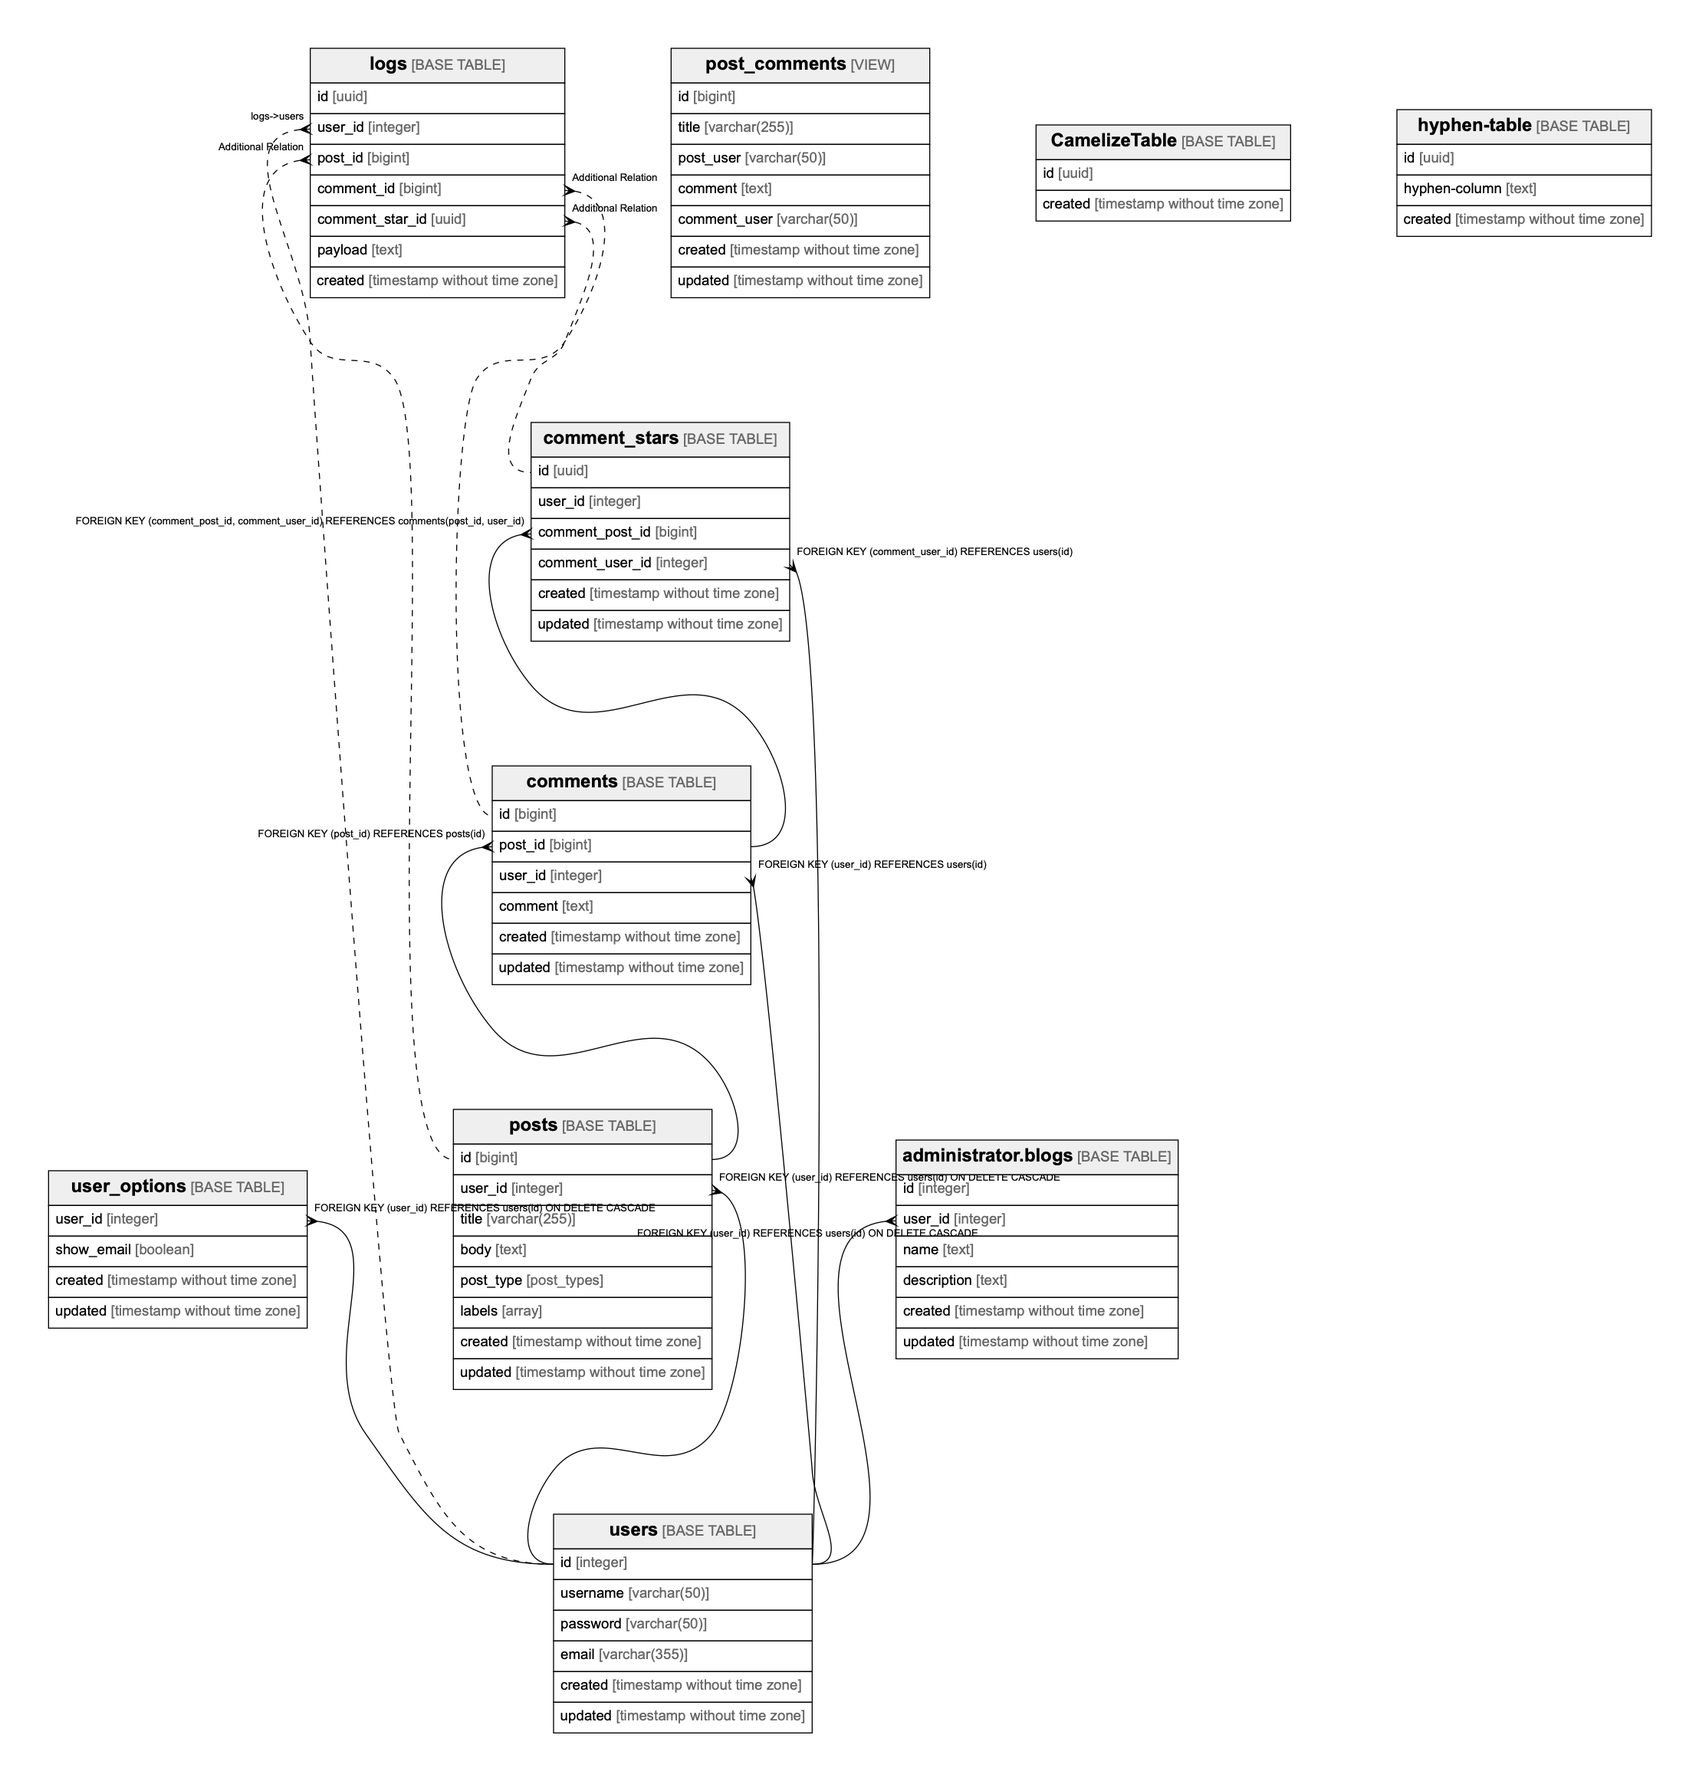
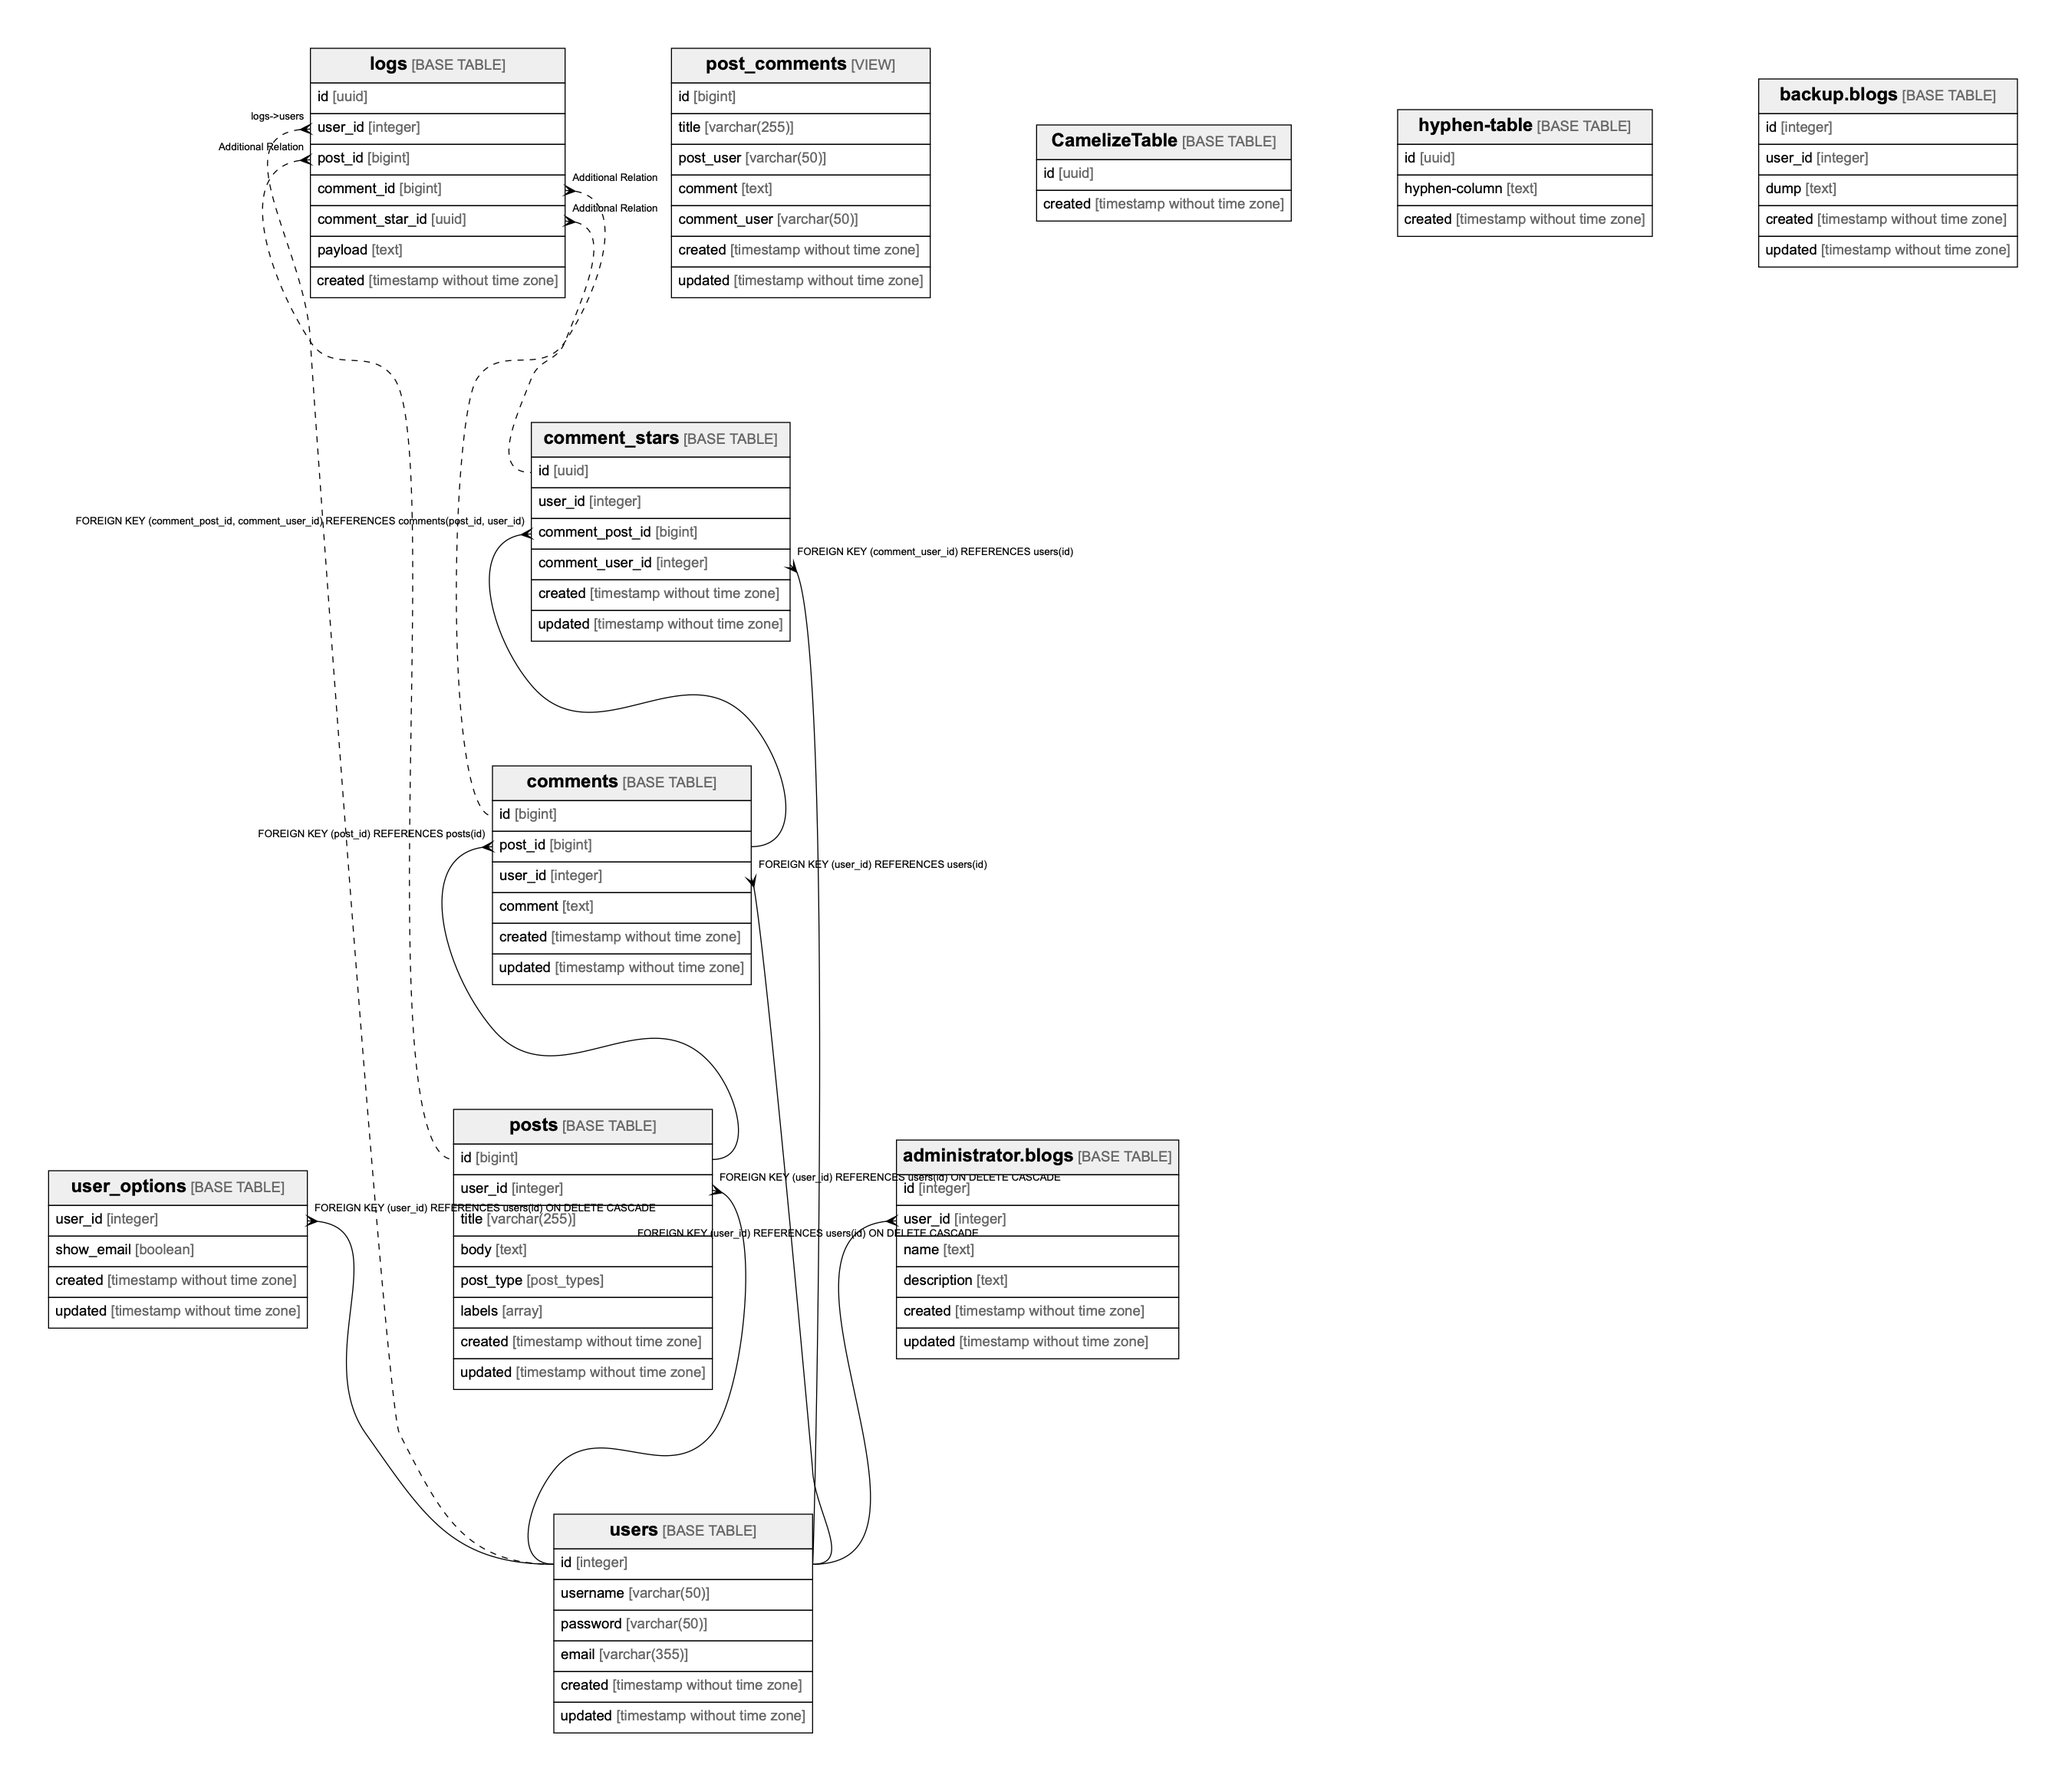
Add test for #134

diff --git a/datasource/datasource_test.go b/datasource/datasource_test.go
@@ -17,7 +17,7 @@ var tests = []struct {
 	relationCount int
 }{
 	{"my://root:mypass@localhost:33306/testdb", "testdb", 9, 6},
-	{"pg://postgres:pgpass@localhost:55432/testdb?sslmode=disable", "testdb", 10, 7},
+	{"pg://postgres:pgpass@localhost:55432/testdb?sslmode=disable", "testdb", 11, 7},
 	{"json://../testdata/testdb.json", "testdb", 7, 9},
 	{"ms://SA:MSSQLServer-Passw0rd@localhost:11433/testdb", "testdb", 9, 6},
 }

diff --git a/sample/adjust/backup.blogs.md b/sample/adjust/backup.blogs.md
@@ -1,0 +1,33 @@
+# backup.blogs
+
+## Description
+
+## Columns
+
+| Name    | Type                        | Default                                  | Nullable | Children | Parents | Comment |
+| ------- | --------------------------- | ---------------------------------------- | -------- | -------- | ------- | ------- |
+| id      | integer                     | nextval('backup.blogs_id_seq'::regclass) | false    |          |         |         |
+| user_id | integer                     |                                          | false    |          |         |         |
+| dump    | text                        |                                          | false    |          |         |         |
+| created | timestamp without time zone |                                          | false    |          |         |         |
+| updated | timestamp without time zone |                                          | true     |          |         |         |
+
+## Constraints
+
+| Name       | Type        | Definition       |
+| ---------- | ----------- | ---------------- |
+| blogs_pkey | PRIMARY KEY | PRIMARY KEY (id) |
+
+## Indexes
+
+| Name       | Definition                                                      |
+| ---------- | --------------------------------------------------------------- |
+| blogs_pkey | CREATE UNIQUE INDEX blogs_pkey ON backup.blogs USING btree (id) |
+
+## Relations
+
+![er](backup.blogs.png)
+
+---
+
+> Generated by [tbls](https://github.com/k1LoW/tbls)

diff --git a/sample/postgres/backup.blogs.md b/sample/postgres/backup.blogs.md
@@ -1,0 +1,33 @@
+# backup.blogs
+
+## Description
+
+## Columns
+
+| Name | Type | Default | Nullable | Children | Parents | Comment |
+| ---- | ---- | ------- | -------- | -------- | ------- | ------- |
+| id | integer | nextval('backup.blogs_id_seq'::regclass) | false |  |  |  |
+| user_id | integer |  | false |  |  |  |
+| dump | text |  | false |  |  |  |
+| created | timestamp without time zone |  | false |  |  |  |
+| updated | timestamp without time zone |  | true |  |  |  |
+
+## Constraints
+
+| Name | Type | Definition |
+| ---- | ---- | ---------- |
+| blogs_pkey | PRIMARY KEY | PRIMARY KEY (id) |
+
+## Indexes
+
+| Name | Definition |
+| ---- | ---------- |
+| blogs_pkey | CREATE UNIQUE INDEX blogs_pkey ON backup.blogs USING btree (id) |
+
+## Relations
+
+![er](backup.blogs.png)
+
+---
+
+> Generated by [tbls](https://github.com/k1LoW/tbls)

diff --git a/sample/adjust/README.md b/sample/adjust/README.md
@@ -14,6 +14,7 @@
 | [CamelizeTable](CamelizeTable.md)             | 2       |                                            | BASE TABLE |
 | [hyphen-table](hyphen-table.md)               | 3       |                                            | BASE TABLE |
 | [administrator.blogs](administrator.blogs.md) | 6       |                                            | BASE TABLE |
+| [backup.blogs](backup.blogs.md)               | 5       |                                            | BASE TABLE |
 
 ## Relations
 

diff --git a/sample/postgres/README.md b/sample/postgres/README.md
@@ -14,6 +14,7 @@
 | [CamelizeTable](CamelizeTable.md) | 2 |  | BASE TABLE |
 | [hyphen-table](hyphen-table.md) | 3 |  | BASE TABLE |
 | [administrator.blogs](administrator.blogs.md) | 6 |  | BASE TABLE |
+| [backup.blogs](backup.blogs.md) | 5 |  | BASE TABLE |
 
 ## Relations
 
